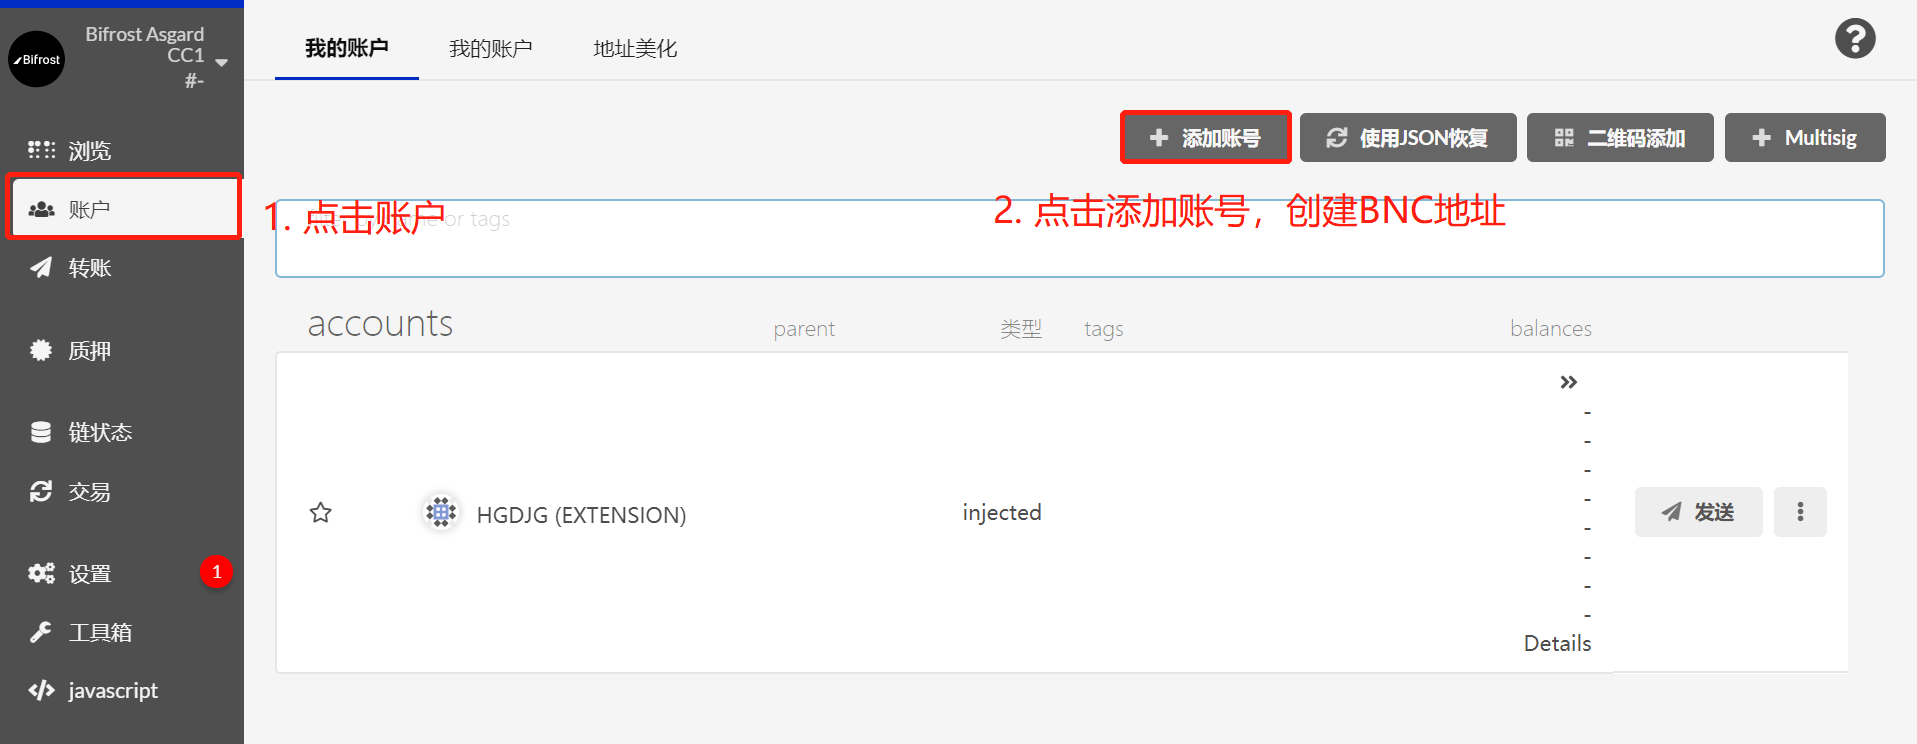
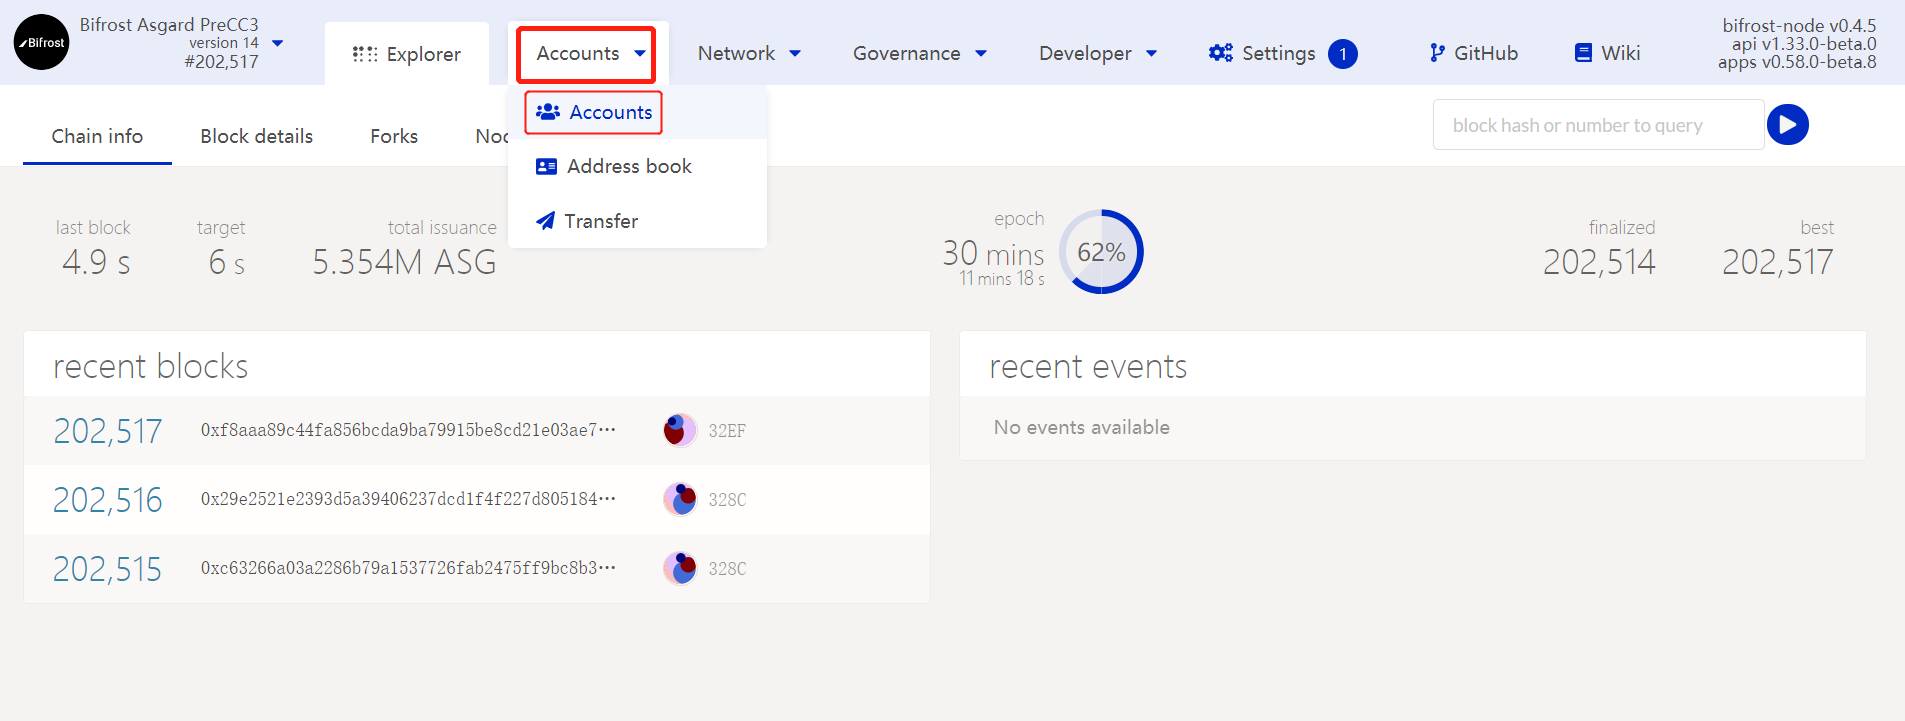
update the bifrost address tutorials

diff --git a/zh/help/bnc-wallet-register-tutorials.md b/zh/help/bnc-wallet-register-tutorials.md
@@ -1,26 +1,31 @@
-# BNC 钱包地址创建教程
+# Bifrost 地址创建教程
 
 **1. 访问地址： <https://dash.bifrost.finance/#/explorer>**
 
-**2. 选择`账户`，点击`添加账号`**
+**2. 选择`Accounts`，点击`Accounts`**
 
 
 <img :src="$withBase('/zh/bnc-wallet-register/bnc-wallet-tutorials-01.png')" alt="" width="60%" />
 
-**3. 填写账号`名称`、`密码`并备份私钥或种子，填好后选择`保存`**
+**3. 点击`Add account`**
 
 
 <img :src="$withBase('/zh/bnc-wallet-register/bnc-wallet-tutorials-02.png')" alt="" width="60%" />
 
-**4. 接受提示并保存恢复文件**
+**4. 填写账号`name`、`password`并备份助记词和种子，填好后选择`Next`**
 
 
 <img :src="$withBase('/zh/bnc-wallet-register/bnc-wallet-tutorials-03.png')" alt="" width="60%" />
 
+**4. 接受提示并点击`Save`创建账号**
+
+
+<img :src="$withBase('/zh/bnc-wallet-register/bnc-wallet-tutorials-04.png')" alt="" width="60%" />
+
 **5. `手机端`创建的可能不会自动下载 json 文件，所以一定要`备份好上面的助记词或原始种子！！！`**
 
 
-<img :src="$withBase('/zh/bnc-wallet-register/bnc-wallet-tutorials-04.png')" alt="文件名即钱包地址" width="60%" />
+<img :src="$withBase('/zh/bnc-wallet-register/bnc-wallet-tutorials-05.png')" alt="文件名即钱包地址" width="60%" />
 
 
 ### 如何复制 BNC 账号地址
@@ -28,18 +33,18 @@
 
 **1. 点击钱包头像即可自动复制**
 
-<img :src="$withBase('/zh/bnc-wallet-register/bnc-wallet-tutorials-05.png')" alt="" width="60%"/>
+<img :src="$withBase('/zh/bnc-wallet-register/bnc-wallet-tutorials-06.png')" alt="" width="60%"/>
 
 
 ### 恢复钱包
 
 
-**1. 使用助记词或原始种子**
+**1. 点击`Add account`在`Mnemonic seed`中输入你的助记词或导入原始种子**
 
 
-<img :src="$withBase('/zh/bnc-wallet-register/bnc-wallet-tutorials-06.png')" alt="" width="60%"/>
+<img :src="$withBase('/zh/bnc-wallet-register/bnc-wallet-tutorials-07.png')" alt="" width="60%"/>
 
 **2. 使用 JSON 文件恢复**
 
 
-<img :src="$withBase('/zh/bnc-wallet-register/bnc-wallet-tutorials-07.png')" alt="" width="60%" />
+<img :src="$withBase('/zh/bnc-wallet-register/bnc-wallet-tutorials-08.png')" alt="" width="60%" />
